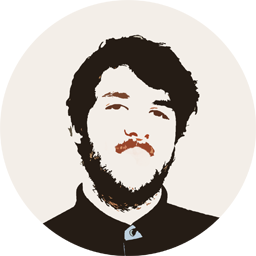
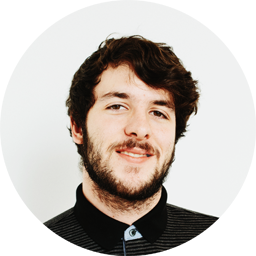
Update Contact section and profile picture.

Changed region(s): [[0.1562, 0.125, 0.8438, 1.0]]

diff --git a/index.html b/index.html
@@ -125,7 +125,7 @@
                                 <i class="fa fa-search-plus fa-3x"></i>
                             </div>
                         </div>
-                        <img src="img/portfolio/circus.png" class="img-responsive" alt="">
+                        <img src="img/portfolio/jnrainwav.png" class="img-responsive" alt="">
                     </a>
                 </div>
                 <div class="col-sm-4 portfolio-item">
@@ -207,15 +207,14 @@
                 <div class="col-lg-12 text-center">
                     <h2>Contact Me</h2>
                     <hr class="star-primary">
-                    <span>contact@jacobnelken.com</span>
-                    <p></p>
+                    <address><p><a href="mailto:contact@jacobnelken.com">by email</a></p></address>
                 </div>
             </div>
             <div class="row">
                 <div class="col-lg-8 col-lg-offset-2">
                     <!-- To configure the contact form email address, go to mail/contact_me.php and update the email address in the PHP file on line 19. -->
                     <!-- The form should work on most web servers, but if the form is not working you may need to configure your web server differently. -->
-                    <form name="sentMessage" id="contactForm" novalidate>
+                    <!-- <form name="sentMessage" id="contactForm" novalidate>
                         <div class="row control-group">
                             <div class="form-group col-xs-12 floating-label-form-group controls">
                                 <label>Name</label>
@@ -251,7 +250,7 @@
                                 <button type="submit" class="btn btn-success btn-lg">Send</button>
                             </div>
                         </div>
-                    </form>
+                    </form> -->
                 </div>
             </div>
         </div>
@@ -292,6 +291,7 @@
                     <div class="footer-col col-md-4">
                         <h3>Music</h3>
                         <p>Soundcloud: <a href="http://soundcloud.com/callistosfx">Callistosfx</a></p>
+
                     </div>
                 </div>
             </div>
@@ -300,7 +300,7 @@
             <div class="container">
                 <div class="row">
                     <div class="col-lg-12">
-                        Copyright &copy; Your Website 2014
+                        Copyright &copy; Jacob Nelken 2015
                     </div>
                 </div>
             </div>
@@ -404,7 +404,7 @@
                         <div class="modal-body">
                             <h2>Project Title</h2>
                             <hr class="star-primary">
-                            <img src="img/portfolio/circus.png" class="img-responsive img-centered" alt="">
+                            <img src="img/portfolio/jnrainwav.png" class="img-responsive img-centered" alt="">
                             <p>Use this area of the page to describe your project. The icon above is part of a free icon set by <a href="https://sellfy.com/p/8Q9P/jV3VZ/">Flat Icons</a>. On their website, you can download their free set with 16 icons, or you can purchase the entire set with 146 icons for only $12!</p>
                             <ul class="list-inline item-details">
                                 <li>Client:
